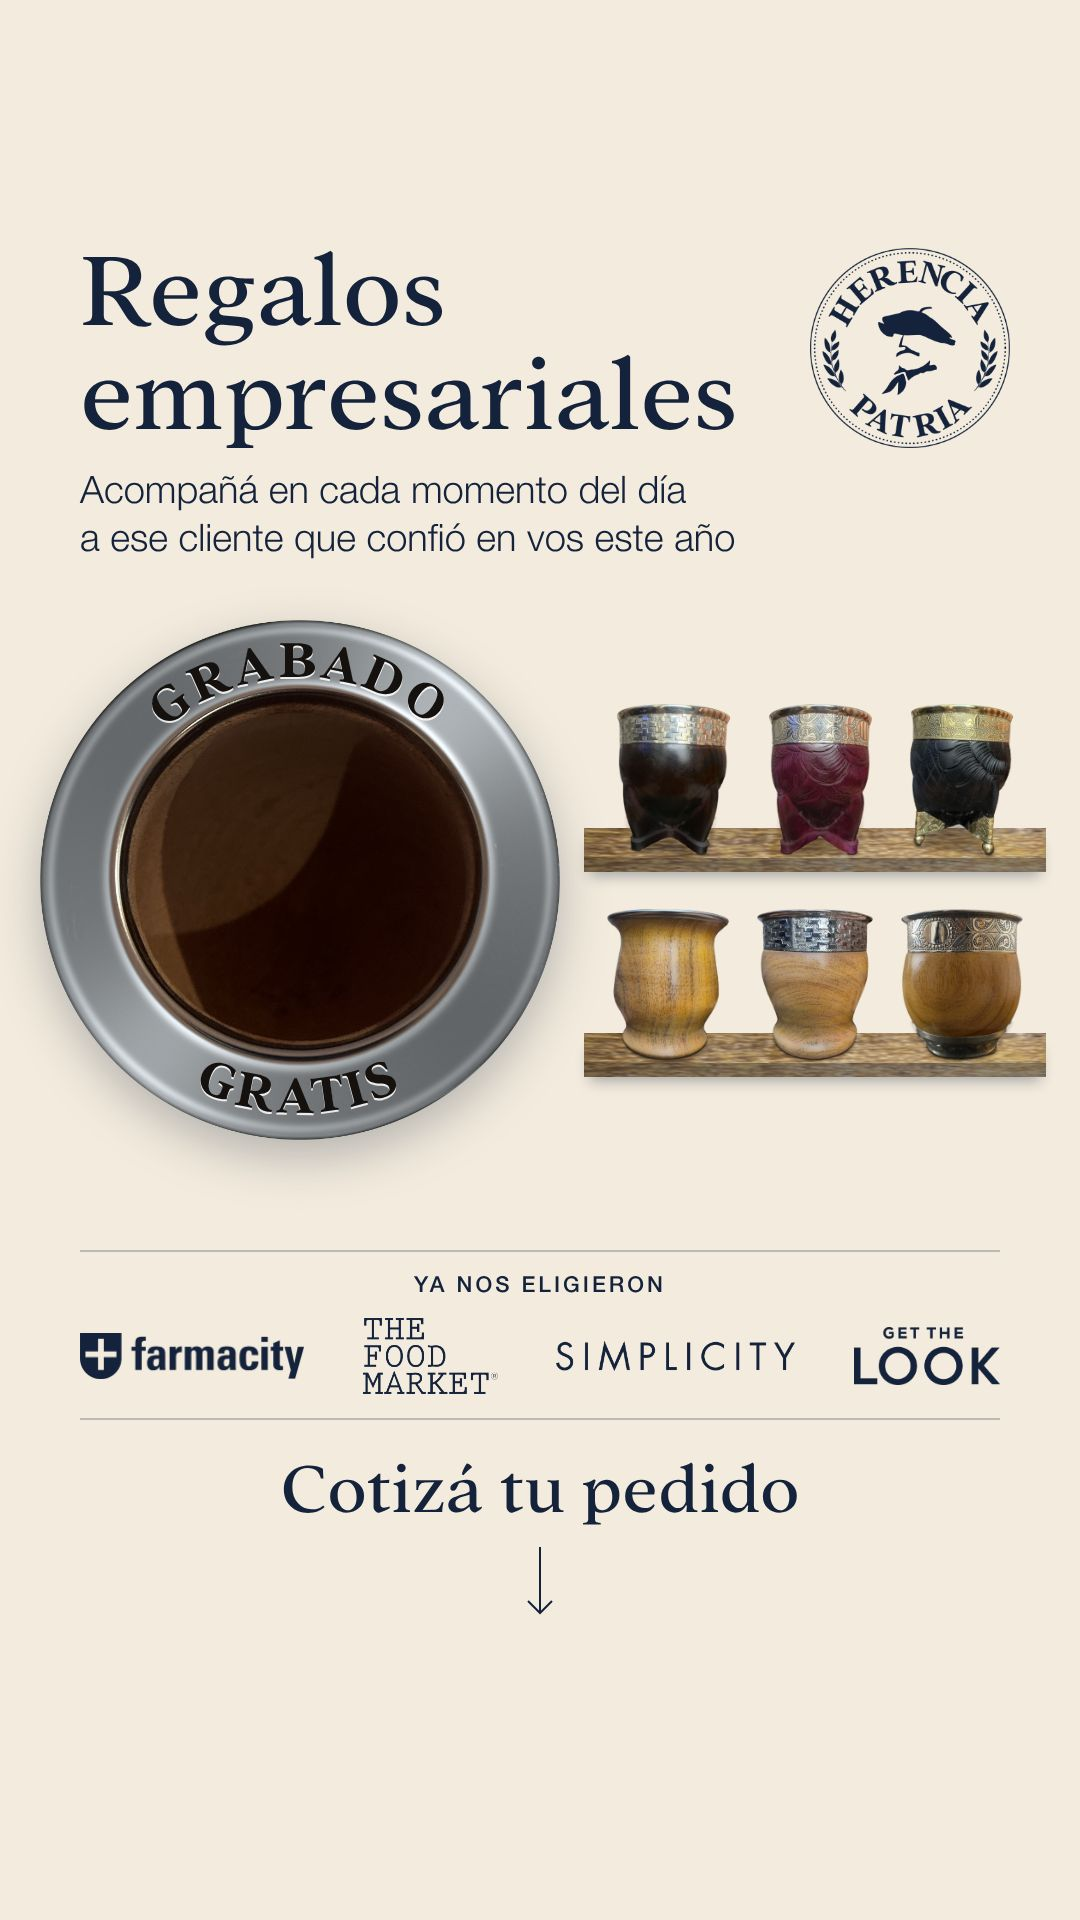
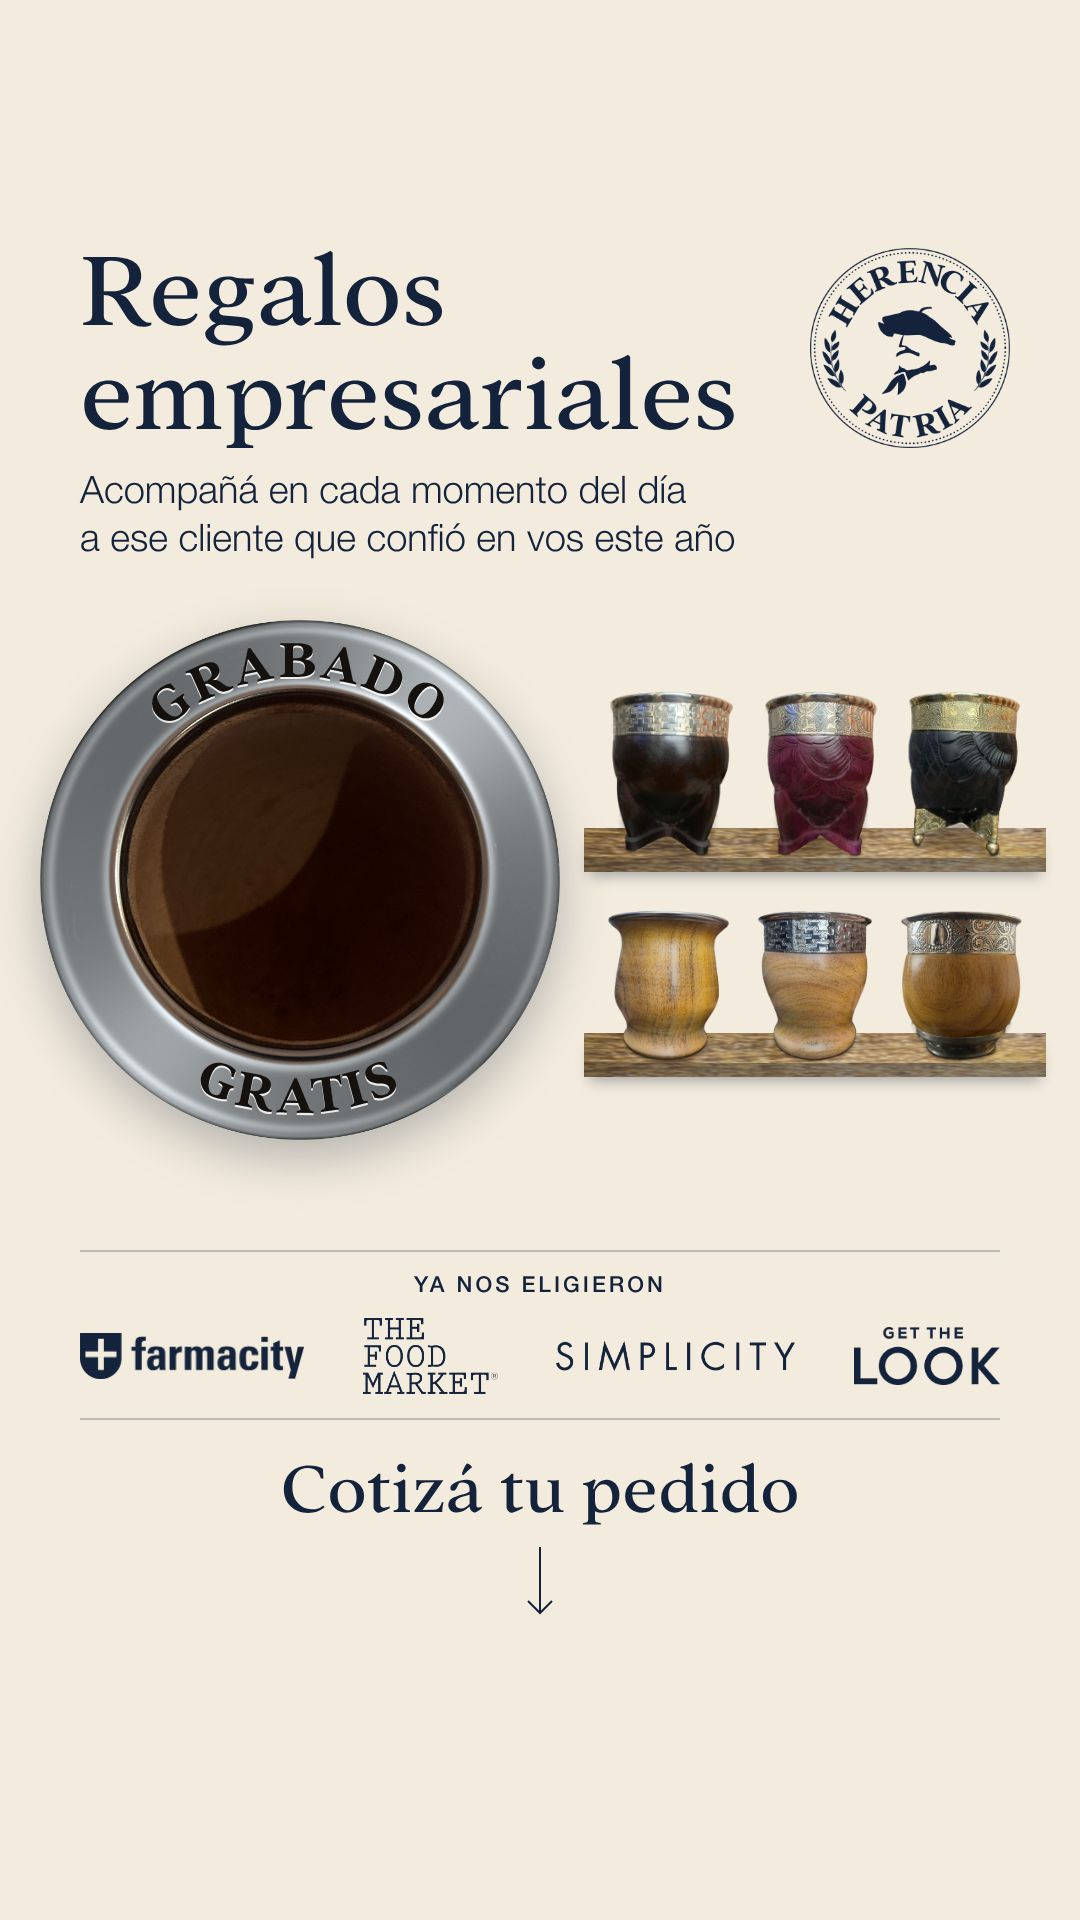
Historia empresarial B: los de calabaza apenas más grandes que los de algarrobo
Claude-Session: https://claude.ai/code/session_012H3xPSmbqKoMmc2aK7okNH

diff --git a/src/HerenciaPatria/HistoriaEmpresasLogo.tsx b/src/HerenciaPatria/HistoriaEmpresasLogo.tsx
@@ -45,7 +45,9 @@ export const HistoriaEmpresasLogo: React.FC<{
   const x0 = 40;
   const y0 = 620;
   // Los otros modelos: una grilla chica a la derecha del aro.
-  const altoChico = 150;
+  // Alto de los mates chicos por fila: los de calabaza (arriba) son apenas
+  // más grandes que los de algarrobo (abajo), como en la realidad.
+  const altoFila = [162, 148];
   // Los recortes traen debajo de la base su sombra de contacto: 24 px más
   // cada 700 de mate (ver tools/recorte_mate.py).
   const conPie = 724 / 700;
@@ -154,6 +156,7 @@ export const HistoriaEmpresasLogo: React.FC<{
           sobre la cara de arriba de la tabla. */}
       {[otros.slice(0, 3), otros.slice(3)].map((fila, i) => {
         const apoyo = y0 + lado / 2 - 30 + i * 205;
+        const altoChico = altoFila[i];
         const madera = (alto: number, desde: number, luz: number) => (
           <div style={{ height: alto, overflow: "hidden" }}>
             <Img
